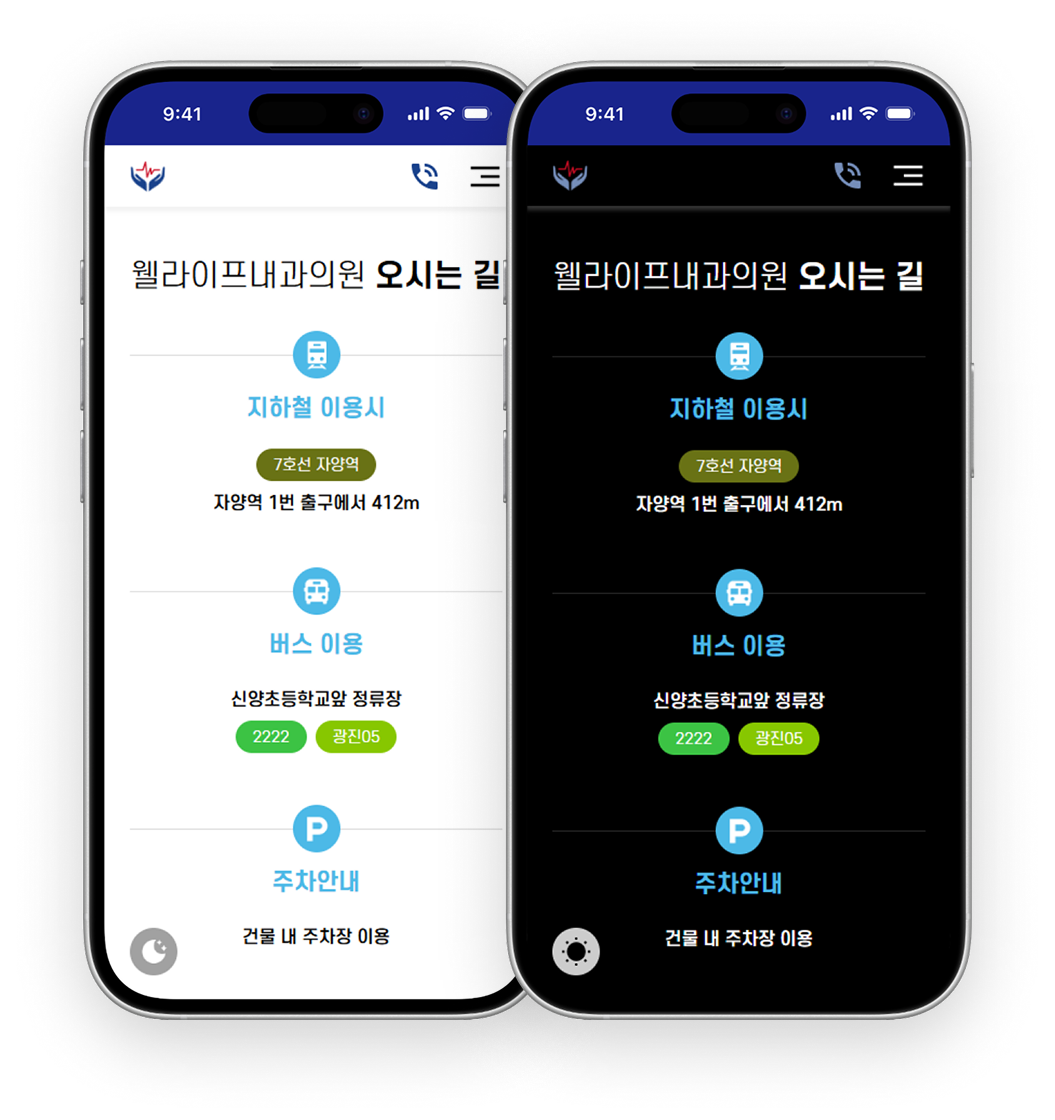
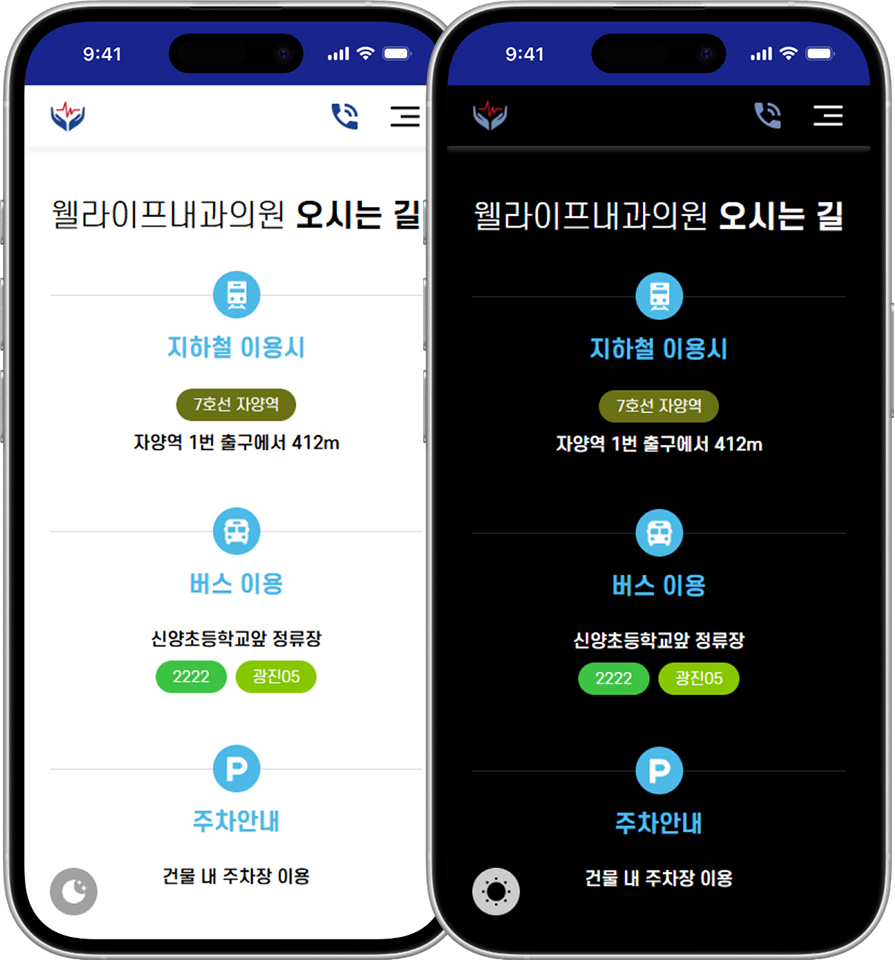
chore: 웰라이프 섹션 모바일 버전 반응형 작업중(중간저장)

diff --git a/css/responsive/mobile.css b/css/responsive/mobile.css
@@ -511,6 +511,10 @@
   }
   .web-project__mockup-item {
     margin: 0 auto;
+    filter: drop-shadow(var(--shadow-well-life));
+  }
+  .web-project__mockup-item:not(:last-child) {
+    margin-bottom: var(--spacing-3xl);
   }
   .web-project__mockup-item img {
     display: block;
@@ -518,15 +522,13 @@
     height: auto;
   }
   .web-project__mockup-item--pc {
-    width: calc(100% + 40px);
-    transform: translateX(-20px);
+    width: 100%;
   }
   .web-project__mockup-item--tablet {
     width: 90%;
   }
-
   .web-project__mockup-item--mobile {
-    width: 80%;
+    width: 70%;
   }
 
   /* web-project__mockup-total */
@@ -536,9 +538,8 @@
 
   /* ----- web-project__links ----- */
   .web-project__links {
-    flex-wrap: wrap;
-    justify-content: center;
     gap: var(--spacing-md);
+    margin-top: var(--spacing-4xl);
   }
   .web-project__link { 
     width: 90px;
@@ -559,10 +560,27 @@
     text-align: center;
   }
   .web-project__subtitle::before {
-    top: 19px;
+    top: 20px;
+  }
+
+  /* ----- web-project__color-theme ----- */
+  /* web-project__color-mockup */
+  .web-project__color-mockup {
+    padding: 0 var(--spacing-md);
+  }
+
+  /* ----- web-project__typography ----- */
+  /* web-project__typo-mockups */
+  .web-project__typo-mockups {
+    justify-content: space-between;
+    min-width: 320px;
+    padding: 0 var(--spacing-md);
+  }
+  .web-project__typo-mockups img {
+    width: 42%;
+    height: auto;
   }
   /* ########## END - WEB ########## */
-
 
   /* ########## SECTION - PRACTICAL ########## */
   .practical-content {

diff --git a/css/sections/web.css b/css/sections/web.css
@@ -255,6 +255,10 @@
   padding: var(--spacing-md) var(--spacing-lg);
   border-bottom: 1px solid var(--color-line);
 }
+.web-project__overview-table tbody tr:last-child th,
+.web-project__overview-table tbody tr:last-child td {
+  border-bottom: none;
+}
 .web-project__overview-table thead th {
   background-color: var(--color-well-life-primary);
   color: var(--text-color-white);
@@ -288,8 +292,7 @@
 .web-project__color-mockup img {
   width: 100%;
   height: auto;
-  box-shadow: var(--shadow-well-life);
-  border-radius: 28px;
+  filter: drop-shadow(var(--shadow-well-life));
 }
 
 /* web-project__color-circles */
@@ -311,7 +314,6 @@
 }
 
 /* web-project__typo-circles */
-
 .web-project__typo-circle--primary {
   background-color: var(--color-well-life-text-primary);
 }
@@ -333,6 +335,5 @@
 .web-project__typo-mockups img {
   width: 211px;
   height: 430px;
-  border-radius: 36px;
-  box-shadow: var(--shadow-well-life);
+  filter: drop-shadow(var(--shadow-well-life));
 }

diff --git a/css/common/variables.css b/css/common/variables.css
@@ -94,7 +94,7 @@
   --color-well-life-text-primary: #000000;
   --color-well-life-text-secondary: #6B6B6B;
   --color-well-life-text-tertiary: #A6A6A6;
-  --shadow-well-life: 0 10px 40px 0 rgba(0, 0, 0, 0.2);
+  --shadow-well-life: 0 10px 20px rgba(0, 0, 0, 0.2);
 
   /* React 섹션 전용 */
   --react-text-color: #1E2723;
